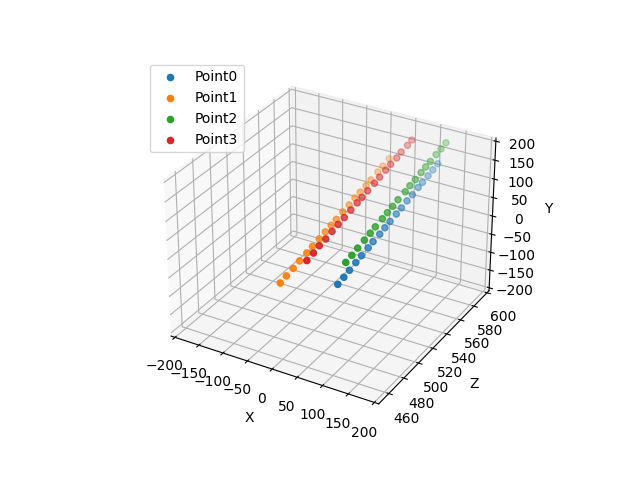
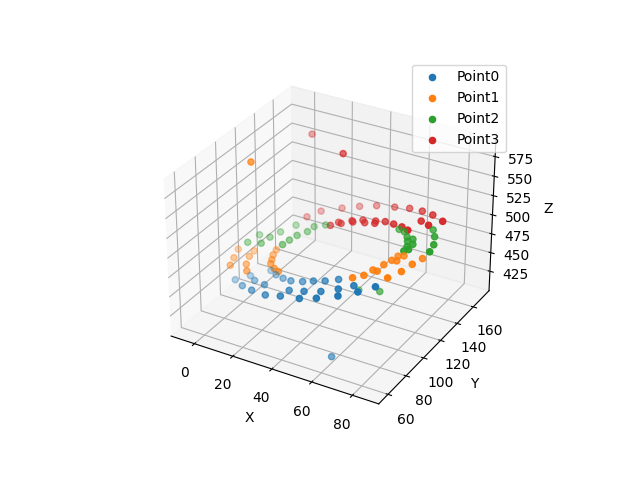
angle, epipolar, combination

diff --git a/example/find_body.py b/example/find_body.py
@@ -24,13 +24,15 @@ def main():
     points3d = fs.getNode("testPoint").mat()
     # print("orginDis:",orginDis)
 
-    ########################################## load point data
-    path = "data/result/point_data.csv"
+    ########################################## load point_data
+    path = "data/result/point_data_angle_2.csv"
     df = pd.read_csv(path, header=None)
     point_data = df.to_numpy()
 
-    ########################################## open point error data
-    fileErrData = open("data/result/point_error_data.csv", "w")
+    ########################################## open point_result
+    fileErrData = open("data/result/point_result.csv", "w")
+    text = "dis, relia, err0, err1, err2, err3, angle0, angle1, angle2,\n"
+    fileErrData.write(text) # write
 
     ########################################## orgin
     orginDis = findAllDis(orginPoint)
@@ -87,13 +89,6 @@ def main():
         print("reliability:\n", reliability)
         print("error:\n", error)
 
-        # write err data
-        text = ""
-        for i in range(4):
-            text += str(error[i]) + ', '
-        text += '\n'
-        fileErrData.write(text) # write
-
         # numsSort
         numsSort = np.append(nums, np.arange(4).reshape((4, 1)), axis=1)
         numsSort = np.sort(numsSort.view('i8,i8,i8'), order=['f1'], axis=0).view(np.int64)
@@ -132,22 +127,37 @@ def main():
         ret_R, ret_t = rigid_transform_3D(np.asmatrix(basePoint2dPart),np.asmatrix(points3dSortPart))
         axisPoint = (ret_R * np.asmatrix(baseAxisPoint2d).T) + np.tile(ret_t, (1,4))
         axisPoint = axisPoint.T
+        print(axisPoint)
 
         # axisPointDis
         axisPointDis = np.zeros((3,3))
         for i in range(3):
-            axisPointDis[i] = axisPoint[i] - points3d[numsSort[0][2]]
+            # axisPointDis[i] = axisPoint[i] - points3d[numsSort[0][2]]
+            axisPointDis[i] = axisPoint[i+1] - axisPoint[0]
         axisPointDis = axisPointDis / 50
+        print(axisPointDis)
 
         # find axis angle
         angle = rotationToEuler(axisPointDis)
         print("angle rad: \n", angle)
-        print("angle deg: \n", np.rad2deg(angle))
+        angleDeg = np.rad2deg(angle)
+        print("angle deg: \n", angleDeg)
+
+        # write err data
+        text = str(points3d[0][2]) + ", " + str(reliability[0]) + ", "
+        for i in range(4):
+            text += str(error[i]) + ', '
+        for i in range(3):
+            text += str(angleDeg[i]) + ', '
+        text += '\n'
+        fileErrData.write(text) # write
 
         # showPlot3d
         # print("points3d\n",points3d)
         # print("points3dSort\n",points3dSort)
-        showPlot3d(points3d, axisPoint, numsSort[:,2], pc, numsSort[0][2])
+        # showPlot3d(points3d, axisPoint, numsSort[:,2], pc, numsSort[0][2])
+
+        # exit()
 
     fileErrData.close()
 

diff --git a/lib/kevin/kevincv.py b/lib/kevin/kevincv.py
@@ -48,7 +48,7 @@ def calcu_world_point(point, z_depth, focal):
 ###############################################################################################
 # epipolar_line
 ###############################################################################################
-def epipolar_line(FundamentalMatrix, point, size, flag):
+def epipolar_line(FundamentalMatrix, point, size, x, flag):
     ###################################### line equation
     if(flag == 0):
         lineEq = np.dot(FundamentalMatrix, point.T)
@@ -59,8 +59,10 @@ def epipolar_line(FundamentalMatrix, point, size, flag):
     c = lineEq[2]
 
     ####################################### find y ax+by+c=0
-    x = np.array(range(size))
+    if(size > 0):
+        x = np.array(range(size))
     y = -(a*x+c)/b
+
     return y
 
 
@@ -313,8 +315,8 @@ def percentReliabilityArray(true, observed, pointNums, half=0):
     tableNum = pointNums[0][0]
     for i in range(4):
         res[i] = 100 - percentError(true[tableNum][pointNums[i][1]-1], observed[i])
-        if(half and res[i] > 0):
-            res[i] -= 50
+        if(half and res[i] > 0): res[i] -= 50
+        if res[i]< 0 : res[i] = 0
     return res
 
 ###################################################################################
@@ -438,18 +440,24 @@ def findAxisDis(point3d, inputAxisPoint=0):
 # rotationToEuler
 ###################################################################################
 def rotationToEuler(R):
-    sy = sqrt(R[0,0] * R[0,0] + R[1,0] * R[1,0])
-    singular = sy < 1e-6
 
-    if not singular:
-        x = atan2(R[2,1], R[2,2])
-        y = atan2(-R[2,0], sy)
-        z = atan2(R[1,0], R[0,0])
-    else:
-        x = atan2(-R[1,2], R[1,1])
-        y = atan2(-R[2,0], sy)
-        z = 0
+    ################ method 1
+    # sy = sqrt(R[0,0] * R[0,0] + R[1,0] * R[1,0])
+    # singular = sy < 1e-6
+    # if not singular:
+    #     x = atan2(R[2,1], R[2,2])
+    #     y = atan2(-R[2,0], sy)
+    #     z = atan2(R[1,0], R[0,0])
+    # else:
+    #     x = atan2(-R[1,2], R[1,1])
+    #     y = atan2(-R[2,0], sy)
+    #     z = 0
 
+    ################ method 2 by sandy
+    x = -1 * asin(R[2,1])
+    y = atan2(R[2,0], R[2,2])
+    z = atan2(R[0,1], R[1,1])
+    
     return np.array([x,y,z])
 
 

diff --git a/example/epipolar_line.py b/example/epipolar_line.py
@@ -1,3 +1,4 @@
+from cgi import print_arguments
 import os
 import sys
 sys.path.append(os.getcwd())
@@ -17,14 +18,31 @@ fname = str(15) + ".jpg"
 frame_left = cv2.imread(path + '1/' + fname)
 frame_right = cv2.imread(path + '2/' + fname)
 
-point2d = np.array(([479,319],[538,217],[429,248],[557,296]))
+# point2d = np.array(([479,319],[538,217],[429,248],[557,296]))
+point2d = np.array(([538,216],[479,217],[429,248],[557,296]))
+point2d_2 = np.array(([579,225],[619,225],[542,251],[633,290]))
 
 for i in range(len(point2d)):
     cv2.circle(frame_right, tuple(point2d[i]), 5, (0, 0, 255), -1)
+    cv2.circle(frame_left, tuple(point2d_2[i]), 5, (0, 0, 255), -1)
     point = np.array([[point2d[i][0],point2d[i][1],1]])
-    linePoint = epipolar_line(FundamentalMatrix, point, 640, 1)
+    point_2 = np.array([[point2d_2[i][0],point2d_2[i][1],1]])
+
+    linePoint = epipolar_line(FundamentalMatrix, point, 640, 0, 1)
     cv2.line(frame_left, (0, int(linePoint[0])), (640, int(linePoint[640-1])), 
         (0, 255, 0), 1)
+    epipolarPoint = epipolar_line(FundamentalMatrix, point, 0, 1, 1)
+
+    linePoint_2 = epipolar_line(FundamentalMatrix, point_2, 640, 0, 0)
+    cv2.line(frame_right, (0, int(linePoint_2[0])), (640, int(linePoint_2[640-1])), 
+        (0, 255, 0), 1)    
+    epipolarPoint_2 = epipolar_line(FundamentalMatrix, point_2, 0, 1, 0)
+
+    print(epipolarPoint, epipolarPoint_2)
+
+    text = "p" + str(i) + " " + str(point[0][:2]) + str(round(epipolarPoint[0])) + " " + str(point_2[0][:2]) + str(round(epipolarPoint_2[0]))
+    cv2.putText(frame_left, text,
+            (10, 40+i*40), cv2.FONT_HERSHEY_SIMPLEX, 0.5, (0, 0, 255), 1)
 
 # gap = 50
 # for i in range(0,480,gap):

diff --git a/src/image_processing/calibration/point_plot_3d.py b/src/image_processing/calibration/point_plot_3d.py
@@ -2,24 +2,44 @@ from matplotlib import pyplot as plt
 import pandas as pd
 
 
-path = "data/result/point_data.csv"
+path = "data/result/point_data_angle_2.csv"
 savePlotPath = 'data/result/point_path_plot/point_path_plot' + '.png'
 
 df = pd.read_csv(path, header=None)
 point = df.to_numpy()
 
+######################################################################
+# show all
+######################################################################
 # show plot 3d
 fig = plt.figure()
 # ax = fig.gca(projection='3d')
 ax = fig.add_subplot(projection='3d')
 ax.set_xlabel('X')
-ax.set_ylabel('Z')
-ax.set_zlabel('Y')
-ax.set_xlim(-200,200)
-ax.set_ylim(450,600)
-ax.set_zlim(-200,200)
+ax.set_ylabel('Y')
+ax.set_zlabel('Z')
+# ax.set_xlim(-200,200)
+# ax.set_ylim(450,600)
+# ax.set_zlim(-200,200)
 for i in range(4):
-    ax.scatter(point[:,0+i*3], point[:,2+i*3], point[:,1+i*3], label='Point'+str(i))
+    ax.scatter(point[:,0+i*3], point[:,1+i*3], point[:,2+i*3], label='Point'+str(i))
 ax.legend()
 plt.savefig(savePlotPath)
 plt.show()
+
+######################################################################
+# show one a time
+######################################################################
+# print(len(point[:]))
+# for i in range(len(point[:])):
+#     # show plot 3d
+#     fig = plt.figure()
+#     ax = fig.add_subplot(projection='3d')
+#     ax.set_xlabel('X')
+#     ax.set_ylabel('Y')
+#     ax.set_zlabel('Z')
+#     for j in range(4):
+#         ax.scatter(point[i,0+j*3], point[i,1+j*3], point[i,2+j*3], label='Point'+str(i))
+#     ax.legend()
+#     plt.savefig(savePlotPath)
+#     plt.show()

diff --git a/src/image_processing/calibration/get_data.py b/src/image_processing/calibration/get_data.py
@@ -62,6 +62,8 @@ def main():
     ########################################### file
     data_path = "data/result/point_data.csv" # file path
     data_file = open(data_path, "w") # open file
+    data_path = "data/result/input_data.csv" # file path
+    input_file = open(data_path, "w") # open file
     count = 0
 
     while 1:
@@ -70,9 +72,13 @@ def main():
         kuc1.uart_ser() # left camera
 
         ########################################### get_point 
+        text = ""
         for i in range(4):
             print("p"+str(i), kuc.point2d[i,0],kuc.point2d[i,1],kuc1.point2d[i,0],kuc1.point2d[i,1], end='\t')
+            text += str(kuc.point2d[i,0]) + ', ' + str(kuc.point2d[i,1]) + ', ' + str(kuc1.point2d[i,0]) + ', ' + str(kuc1.point2d[i,1]) + ', '
         print()
+        text += '\n'
+        input_file.write(text) # write data
 
         ############################################# triangulate
         # print("triangulation_depth ========================================")
@@ -121,6 +127,7 @@ def main():
 
     cv2.destroyAllWindows()
     data_file.close()
+    input_file.close()
 
 
 # if main

diff --git a/test/combinations.py b/test/combinations.py
@@ -1,18 +1,17 @@
 import time
 from itertools import *
-
-from matplotlib.pyplot import pause
+import numpy as np
 
 num = range(8)
 count = 0
 
 start_time = time.time()
-for i in range(4):
+for i in range(8):
     for j in range(i+1,8):
         for k in range(j+1,8):
             for x in range(k+1,8):
                 count += 1
-                print(count,i,j,k,x)
+                # print(count,i,j,k,x)
 print(count)
 print("--- total %s seconds ---" % (time.time() - start_time))
 
@@ -24,4 +23,8 @@ print("--- total %s seconds ---" % (time.time() - start_time))
 start_time = time.time()
 numCombinations = list(combinations(num,4))
 print(len(numCombinations))
-print("--- total %s seconds ---" % (time.time() - start_time))
+
+# print(np.sum(numCombinations[0]))
+print(np.sum(numCombinations,1))
+
+print("--- total %s seconds ---" % (time.time() - start_time)) 

diff --git a/example/gen_point_axis.py b/example/gen_point_axis.py
@@ -31,5 +31,11 @@ for i in range(3):
     axisPoint[i+1] = gp.solve_fsolve()
 print("axisPoint:\n", axisPoint, "\n")
 
+# angle
+angle = rotationToEuler(axisDisSort)
+print("angle rad: \n", angle)
+angleDeg = np.rad2deg(angle)
+print("angle deg: \n", angleDeg)
+
 # showPlot3d
 showPlot3d(basePoint2d, axisPoint, range(4), 4, 0)
